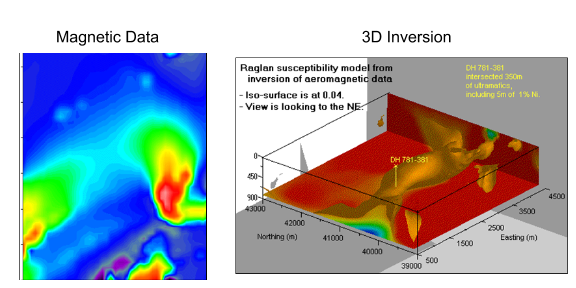
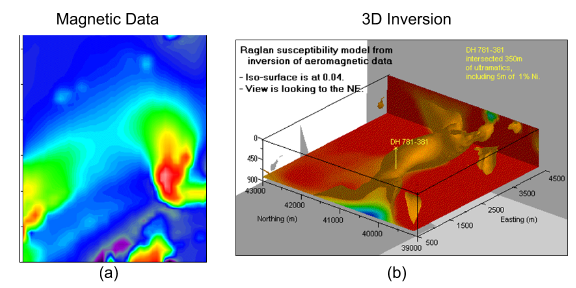
Remove old text from rst. Add Applet tab to main tree

diff --git a/content/magnetics/magnetics_basic_principles.rst b/content/magnetics/magnetics_basic_principles.rst
@@ -137,46 +137,6 @@ primarily to currents in the ionized upper atmosphere. These changes vary over m
   of the Aurora Borealis or Australis (northern or southern lights
   respectively). See the GSC's "Geomagnetic Hazards" web page for more.
 
-.. Field conventions
-.. -----------------
-
-.. In order to represent the magnetic field of Earth :math:`\mathbf{B}` as a
-.. vector in three dimensions, we need to define a coordinate system.  in either
-.. of three ways (see :numref:`coord_sys`):
-
-..  - **Grid** : B = (:math:`B_E`, :math:`B_N`, :math:`B_D`). These are grid coordinates with X pointing to geographic north (N), Y pointing east (E) and Z pointing vertically down.
-
-..  - **UTM** : B = (:math:`B_X` , :math:`B_Y` , :math:`B_Z`). These are the usual Cartesian coordinates with X ponting east, Y pointing north and Z pointing vertically up.
-
-..  - **Polar** :
-
-
-..  - Every five years, the IAGA issues a contemporary main field model that
-.. predicts the field for the next five years. These models have names that are
-.. prefixed with "IGRF." Each new model updates the model that was used to
-.. predict the previous five (or more) years. Updated models are called **DGRF**
-.. for **Definitive Geomagnetic Reference Field**. Major updates since 1980 use
-.. data from MAGSAT, consisting of measurements of vector components and total
-.. intensity of the geomagnetic field between 350 and 560 km altitude.
-
-.. To correct data sets which had older versions of reference fields removed, add
-.. :math:`(F_0 - F_n)` to each data point, where the two parameters are total
-.. intensity values computed from the old and new reference fields respectively.
-.. See Peddie N.W. 1982, 1983, and 1986 for details. Charts of many types are
-.. available on-line, as downloadable postscript files, and for sale (less than
-.. $5.00 each) from the USGS, NOAA, GSC, and just about any other government
-.. geoscience agency. For example, you could use either the NOAA Geomagnetism
-.. page_, or the Canadian National Geomagnetism Program's homepage_.
-
-
-
-
-.. References:
-
-.. * Peddie, N. W., 1986, Report on International Geomagnetic Reference Field revision 1985 by IAGA Division I Working Group 1: *Geophysics*, 51, no. 4, 1020-1023.
-.. * Peddie, N. W., 1983, International Geomagnetic Reference Field - its evolution and the difference in total field intensity between new and old models for 1965-1980 (short note): *Geophysics*, 48, no. 12, 1691-1696.
-.. * Peddie, N. W., 1982, Report on International Geomagnetic Reference Field 1980 by IAGA Division I Working Group 1: *Geophysics*, 47, no. 5, 841-842.
-
 
 .. _magnetic_response:
 
@@ -231,6 +191,7 @@ From :eq:`integral_induced`, we note that the induced response of the field will
   :figwidth: 100%
   :name: magnetics_induced_demo
 
+  : This example was generated with the :ref:`magnetic applet'<magnetics_applet>`
 
 .. the :ref:`dipole animation<magnetics_induced_demo>`
 .. .. _magnetics_induced_demo:
@@ -262,6 +223,8 @@ Similar to the previous animation, we added a remanent component oriented east (
   :align: center
   :figwidth: 100%
   :name: magnetics_remanent_demo
+
+  : This example was generated with the :ref:`magnetic applet'<magnetics_applet>`
 
 
 
@@ -312,8 +275,6 @@ combination (superposition) of dipoles (see the "Buried structures" section).
 
 If the object is "small", that is all of the object's dimensions are several times smaller than the depth to its center, then  the object acts as a :ref:`magnetic dipole<fields_magnetic_dipole>` -- that is, a little bar magnet with strength and direction caused by the inducing field.
 
-.. In the accompanying :ref:`applet<magnetics_applet>`, observations of individual components :math:`(B_x,B_y,B_z)` can be displayed. The projection of :math:`\vec{B_A}` onto the direction of Earth's field :math:`\hat{B_0}` is called the *total field* (:math:`B_t`).
-
 In addition the vertical gradient of the field, obtained if measurements were
 acquired with a gradiometer, are listed as :math:`B_g`.  Sign conventions must
 be adopted when data are plotted. For magnetic surveying the coordinate system
@@ -324,20 +285,6 @@ for :math:`B_y` and vertical fields are positive if they point downward. For
 :math:`B_t` the anomaly is positive if it points in the same direction as the
 earth's field and negative if it is the opposite direction.
 
-
-.. _magnetics_applet:
-
-Magnetic dipoles: a Jupyter Notebook
-------------------------------------
-
-.. figure:: ./images/Mag_Notebook_Thumbnail.png
-	:align: right
-	:figwidth: 50%
-
-The response that will be measured at points on a surface overlying a buried
-magnetic dipole can be explored using the UBC-GIF magnetic dipole magnetic_app_. Be sure to read the documentation provided in the notebook before using it. This tool allows you to vary the location and shape of a buried 3D prism and get the surface map of the anomalous magnetic. The app also allows to include a remanent  (permanent magnet) component to the total magnetization model. Changing the size and location of the prism allows the simulation of a wide range of scenarios, from vertical pipe <add case study here> to various kinds of :ref:`plate models<magnetics_extended_bodies>`.
-
-.. _magnetic_app: http://mybinder.org/repo/ubcgif/gpgLabs/notebooks/Mag/InducedMag2D.ipynb
 
 .. _magnetics_extended_bodies:
 

diff --git a/content/magnetics/magnetics_introduction.rst b/content/magnetics/magnetics_introduction.rst
@@ -7,7 +7,7 @@ Introduction
 The generic magnetic survey is summarized in :numref:`mag_response`.
 The energy source is a magnetic field. The physical
 property of interest is the magnetic susceptibility. The data
-are also magnetic field values. 
+are also magnetic field values.
 
 Signals are interpreted in terms of the subsurface
 distribution of the magnetc susceptibility.
@@ -17,7 +17,7 @@ distribution of the magnetc susceptibility.
     :scale: 50 %
     :name: mag_response
 
-A more pictoral summary of magnetic surveying is 
+A more pictoral summary of magnetic surveying is
 illustrated in :numref:`mag_survey` In
 this case, the **energy source** is the Earth's global magnetic field,
 which has a strength and direction at every location on the Earth.
@@ -25,8 +25,8 @@ Subsurface materials become magnetized by this field,
 and the data are measurements of the magnetic field at the Earth's
 surface, in the air, in space, or within boreholes. The measured magnetic
 field will be a superposition of Earth's field and the induced secondary
-fields caused by magnetization of buried materials. 
-The end goal of a magnetic survey is to infer information about the 
+fields caused by magnetization of buried materials.
+The end goal of a magnetic survey is to infer information about the
 sub-surface from the measured magnetic field data.
 
 .. list-table:: :Principals of magnetic surveys.
@@ -37,12 +37,12 @@ sub-surface from the measured magnetic field data.
 
    *  - .. raw:: html
             :file: intro.html
-            
+
 Magnetic data can be used in a variety of ways and for different purposes.
 One of the most useful is to use magnetic data for geologic mapping.
-The example below shows a magnetic map and a geologic  map over the 
+The example below shows a magnetic map and a geologic  map over the
 same area. There are many geologic units that have a distinct magnetic
-signature but the correspondence in not one-to-one.  
+signature but the correspondence in not one-to-one.
 
 
     .. figure:: ./images/intro_geomaping.png
@@ -50,8 +50,7 @@ signature but the correspondence in not one-to-one.
         :scale: 100 %
         :name: intro_geomaping
 
-Figure caption: (a) Magnetic data.  (b)  A geologic map,
-over the same geographical area
+        : (a) Magnetic data.  (b)  A geologic map, over the same geographical area
 
 
 Magnetic data can be used for remediation  and engineering work. The
@@ -61,24 +60,21 @@ orientations are random. These data provide fairly localized information
 about where to dig to find the ordnance item. However, the data can
 be further analysed through a parameteric inversion to find the
 location in 3D space and also the size of the object. These are
-valuable pieces of information when the area is being reclaimed. 
+valuable pieces of information when the area is being reclaimed.
 
     .. figure:: ./images/intro_paramEstim.png
         :align: center
         :scale: 100 %
         :name: mag_paramEstim
 
-Figure caption: (a) A typical UXO site. 
-There is no surface indications of ordnance items.
-(b) Typical ordance items (c) Magnetic field data over a 
-site contaminated with UXO.
+        : (a) A typical UXO site.  There is no surface indications of ordnance items. (b) Typical ordance items (c) Magnetic field data over a  site contaminated with UXO.
 
 
 Magnetic data are also routinely used in mineral exploration.
 In this application however, the data must be inverted to recover
 information about the structure of the deposit at depth. The ability
 to extend surface information into depth is one of the most
-valuable results to be obtained from geophysical data. 
+valuable results to be obtained from geophysical data.
 
 
     .. figure:: ./images/intro_exploration.png
@@ -86,6 +82,4 @@ valuable results to be obtained from geophysical data.
         :scale: 100 %
         :name: mag_exploration
 
-Figure caption:  (a) Magnetic data map with the earth's field removed. (b) A volume
-rendered image of the 3D magnetic susceptibility obtained by inverting the data
-in (a). 
+        : (a) Magnetic data map with the earth's field removed. (b) A volume rendered image of the 3D magnetic susceptibility obtained by inverting the data in (a).

diff --git a/content/magnetics/magnetics_physical_property.rst b/content/magnetics/magnetics_physical_property.rst
@@ -3,7 +3,7 @@
 Susceptibility
 ==============
 
-For the magnetic survey, the physical property of interest is :ref:`magnetic susceptibility<physprop_mag_susc>`. It describes the ability of matter to become :ref:`magnetized<physprop_magnetization>` other an applied :ref:`magnetic field<physprop_magnetic_field>`. In a geological context, :ref:`magnetite-rich rocks<physprop_susc_common_rocks>` are the main source of magnetic signal, both in terms of abundance and susceptibility. In engineering, buried metallic objects are generally highly susceptible, but can also carry a substantial remanent component.
+For the magnetic survey, the physical property of interest is :ref:`magnetic susceptibility<physprop_mag_susc>`. It describes the ability of matter to become :ref:`magnetized<physprop_magnetization>` other an applied :ref:`magnetic field<physprop_magnetic_field>`. In a geological context, :ref:`magnetite-rich rocks<physprop_susc_common_rocks>` are the main source of magnetic signal, both in terms of abundance and susceptibility. In engineering, buried metallic objects are generally highly susceptible, but can also carry a substantial :ref:`remanent<magnetics_remanent>` component.
 
 .. raw:: html
 

diff --git a/content/magnetics/magnetics_applet.rst b/content/magnetics/magnetics_applet.rst
@@ -1,0 +1,13 @@
+.. _magnetics_applet:
+
+Magnetic dipoles: a Jupyter Notebook
+------------------------------------
+
+.. figure:: ./images/Mag_Notebook_Thumbnail.png
+    :align: right
+    :figwidth: 50%
+
+The response that will be measured at points on a surface overlying a buried
+magnetic dipole can be explored using the UBC-GIF magnetic dipole magnetic_app_. Be sure to read the documentation provided in the notebook before using it. This tool allows you to vary the location and shape of a buried 3D prism and get the surface map of the anomalous magnetic. The app also allows to include a remanent  (permanent magnet) component to the total magnetization model. Changing the size and location of the prism allows the simulation of a wide range of scenarios, from vertical pipe <add case study here> to various kinds of :ref:`plate models<magnetics_extended_bodies>`.
+
+.. _magnetic_app: http://mybinder.org/repo/ubcgif/gpgLabs/notebooks/Mag/InducedMag2D.ipynb

diff --git a/content/magnetics/index.rst b/content/magnetics/index.rst
@@ -18,7 +18,7 @@ of where magnetic material lies and also its susceptiblity and shape. Processed 
 presented as maps or profiles, and advanced processing, involving inversion,
 yields parametric structures or 3D models of the subsurface susceptibility
 distribution.  Magnetic surveying is extremely versatile and can be applied in many
-areas in the geosciences including geologic mapping, mineral exploration, 
+areas in the geosciences including geologic mapping, mineral exploration,
 unexploded ordnance detection, and archeology.
 
 .. This section covers some basic information for magnetic surveys. The physical
@@ -44,6 +44,7 @@ Contents:
    magnetics_data
    magnetics_processing
    magnetics_interpretation
+   magnetics_applet
 
 ..  magnetics_IGRF
 ..  magnetics_three_figures
